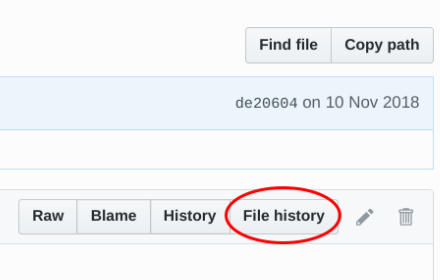
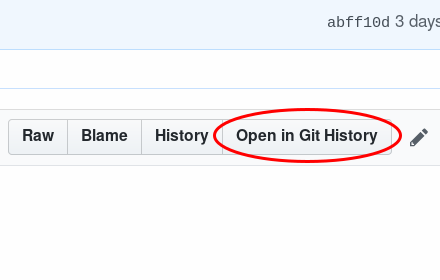
Actualizado imagenes de proyecto a Git History

diff --git a/README.md b/README.md
@@ -1,19 +1,16 @@
-# Github History Browser Extension
-Esta extensión de navegador añade un botón (cuando visitas un archivo en github.) para que cuando lo presiones automáticamente te redirija a [https://github-history.netlify.com/](https://github-history.netlify.com/)
+# Git History Browser Extension
+Esta extensión de navegador añade un botón (cuando visitas un archivo en github.) para que cuando lo presiones automáticamente te redirija a [https://github.githistory.xyz/](https://github.githistory.xyz/)
 Aprende del pasado viendo los cambios en los archivos de los proyectos de github.
 
-## Instalación
+### Instalación
 **Firefox**: [https://addons.mozilla.org/es/firefox/addon/github-history/](https://addons.mozilla.org/es/firefox/addon/github-history/)
 
 **Chrome**: [https://chrome.google.com/webstore/detail/github-history-browser-ex/laghnmifffncfonaoffcndocllegejnf](https://chrome.google.com/webstore/detail/github-history-browser-ex/laghnmifffncfonaoffcndocllegejnf)
 
-## Firefox
-![Firefox img](img/ejemplo-firefox.png)
+### Captura
+![Ejemplo img](img/ejemplo.png)
 
-## Chrome
-![Chrome img](img/ejemplo-chrome.png)
-
-## Agradecimientos
+### Agradecimientos
 
 - https://github.com/pomber/github-history
 
